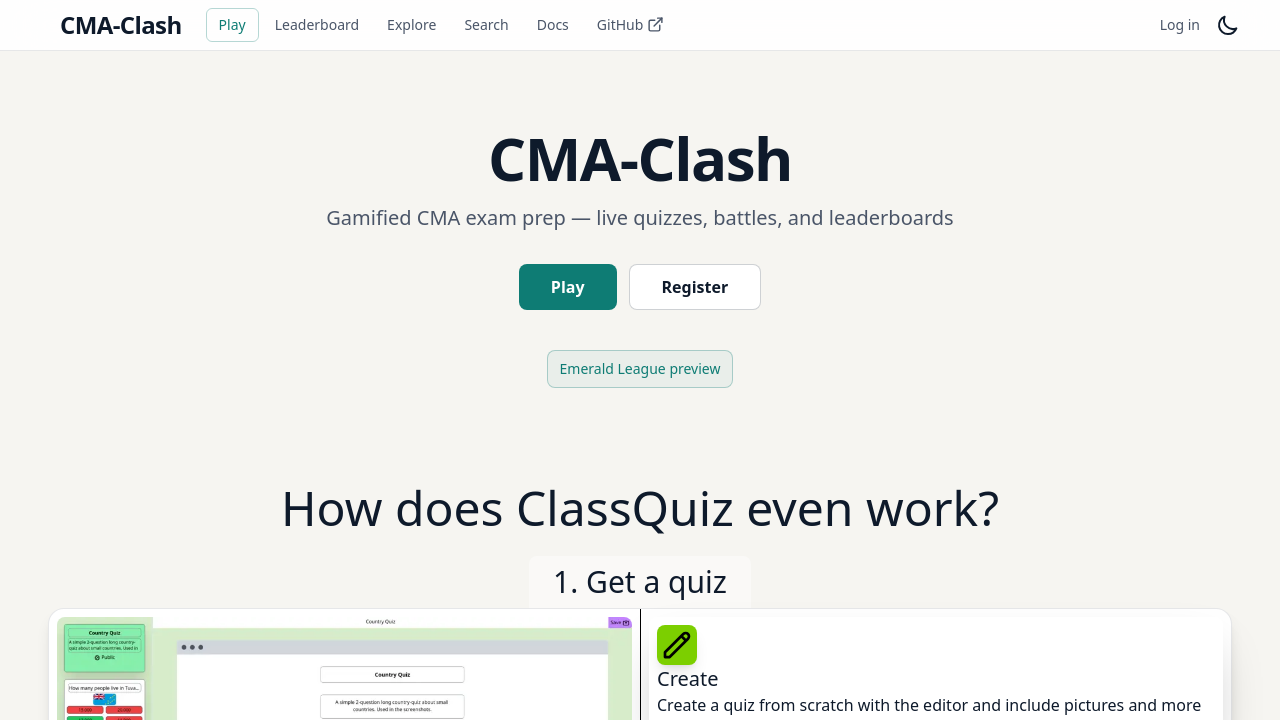
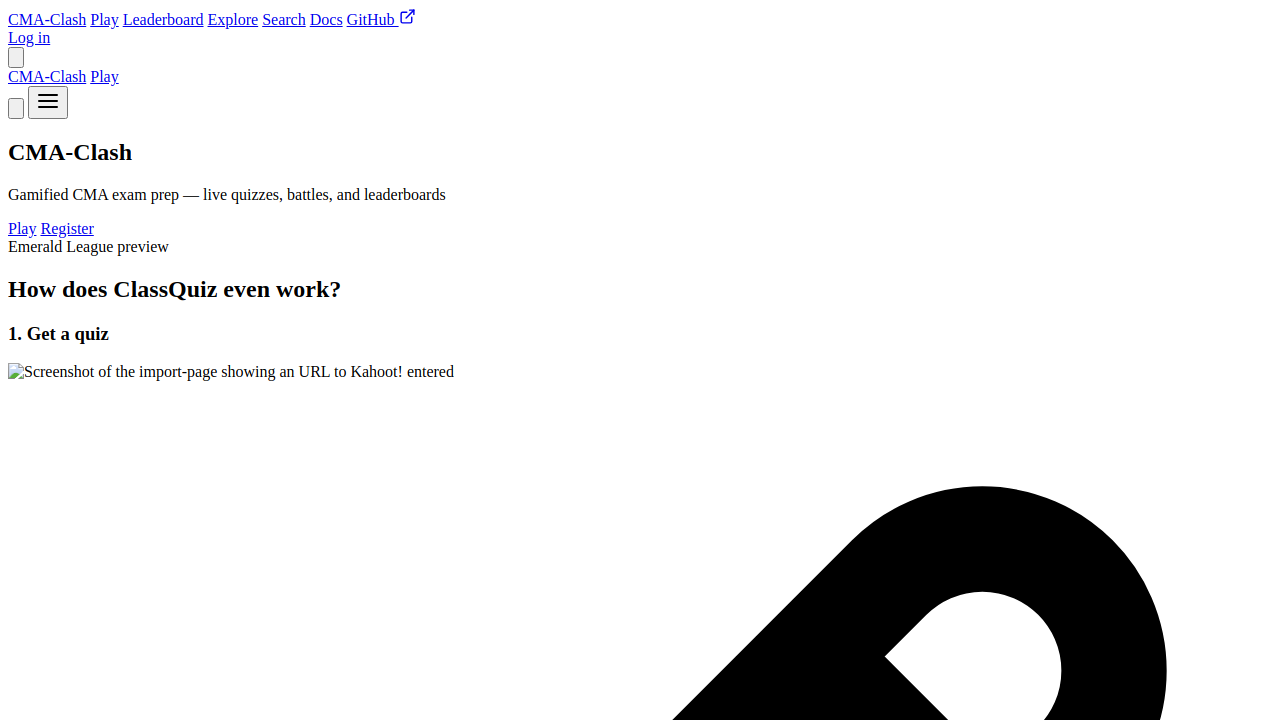
docs: add UI demo route and refresh PR screenshots

diff --git a/frontend/src/routes/demo/screens/+page.svelte b/frontend/src/routes/demo/screens/+page.svelte
@@ -1,0 +1,77 @@
+<!-- UI preview for documentation screenshots (static composition). -->
+<script lang="ts">
+	import { navbarVisible } from '$lib/stores.svelte';
+	import LivePlayHeader from '$lib/ui/LivePlayHeader.svelte';
+	import Card from '$lib/ui/Card.svelte';
+	import TimerBar from '$lib/ui/TimerBar.svelte';
+	import TopicTag from '$lib/ui/TopicTag.svelte';
+	import AnswerShapeIcon from '$lib/ui/AnswerShapeIcon.svelte';
+	import { LEDGER_ANSWER_COLORS, LEDGER_ANSWER_SHAPES } from '$lib/ui/tokens';
+	import LedgerTable from '$lib/ui/LedgerTable.svelte';
+	import Podium from '$lib/ui/Podium.svelte';
+	import PinDisplay from '$lib/ui/PinDisplay.svelte';
+	import PlayerChip from '$lib/ui/PlayerChip.svelte';
+	import ExplanationDrawer from '$lib/ui/ExplanationDrawer.svelte';
+
+	navbarVisible.visible = false;
+</script>
+
+<div class="bg-paper min-h-screen p-8 space-y-16 max-w-4xl mx-auto">
+	<section id="host-lobby">
+		<h2 class="font-display text-xl mb-4">Host lobby</h2>
+		<PinDisplay pin="482913" />
+		<div class="flex gap-2 mt-4">
+			<PlayerChip name="You" />
+			<PlayerChip name="M. Chen" />
+		</div>
+	</section>
+
+	<section id="live-question">
+		<h2 class="font-display text-xl mb-4">Live question</h2>
+		<LivePlayHeader pin="482913" rank={3} totalPlayers={28} rankDelta={1} />
+		<Card class="mt-4">
+			<TopicTag label="CCMA · Anatomy · Q4/10" />
+			<p class="font-display mt-3 mb-4">
+				Budgeted fixed overhead was \$120,000; actual was \$126,000. Spending variance?
+			</p>
+			<TimerBar remainingSeconds={11} totalSeconds={30} />
+			<div class="grid grid-cols-2 gap-3 mt-6">
+				{#each LEDGER_ANSWER_COLORS as color, i}
+					<div
+						class="rounded-xl p-6 flex flex-col items-center gap-2 text-white"
+						style="background:{color}"
+					>
+						<AnswerShapeIcon shape={LEDGER_ANSWER_SHAPES[i]} class="w-8 h-8" />
+						<span class="font-mono">\$6,000 U</span>
+					</div>
+				{/each}
+			</div>
+		</Card>
+	</section>
+
+	<section id="results">
+		<h2 class="font-display text-xl mb-4">Per-question results</h2>
+		<LedgerTable
+			rows={[
+				{ rank: 1, name: 'A. Okafor', score: '9,420' },
+				{ rank: 3, name: 'You', score: '8,870', isYou: true, delta: 1 }
+			]}
+		/>
+		<div class="mt-4">
+			<ExplanationDrawer
+				explanation="Spending variance = actual − budgeted fixed overhead for the period."
+			/>
+		</div>
+	</section>
+
+	<section id="podium">
+		<h2 class="font-display text-xl mb-4">Podium</h2>
+		<Podium
+			entries={[
+				{ name: 'A. Okafor', score: '9,420' },
+				{ name: 'M. Chen', score: '9,105' },
+				{ name: 'You', score: '8,870' }
+			]}
+		/>
+	</section>
+</div>
